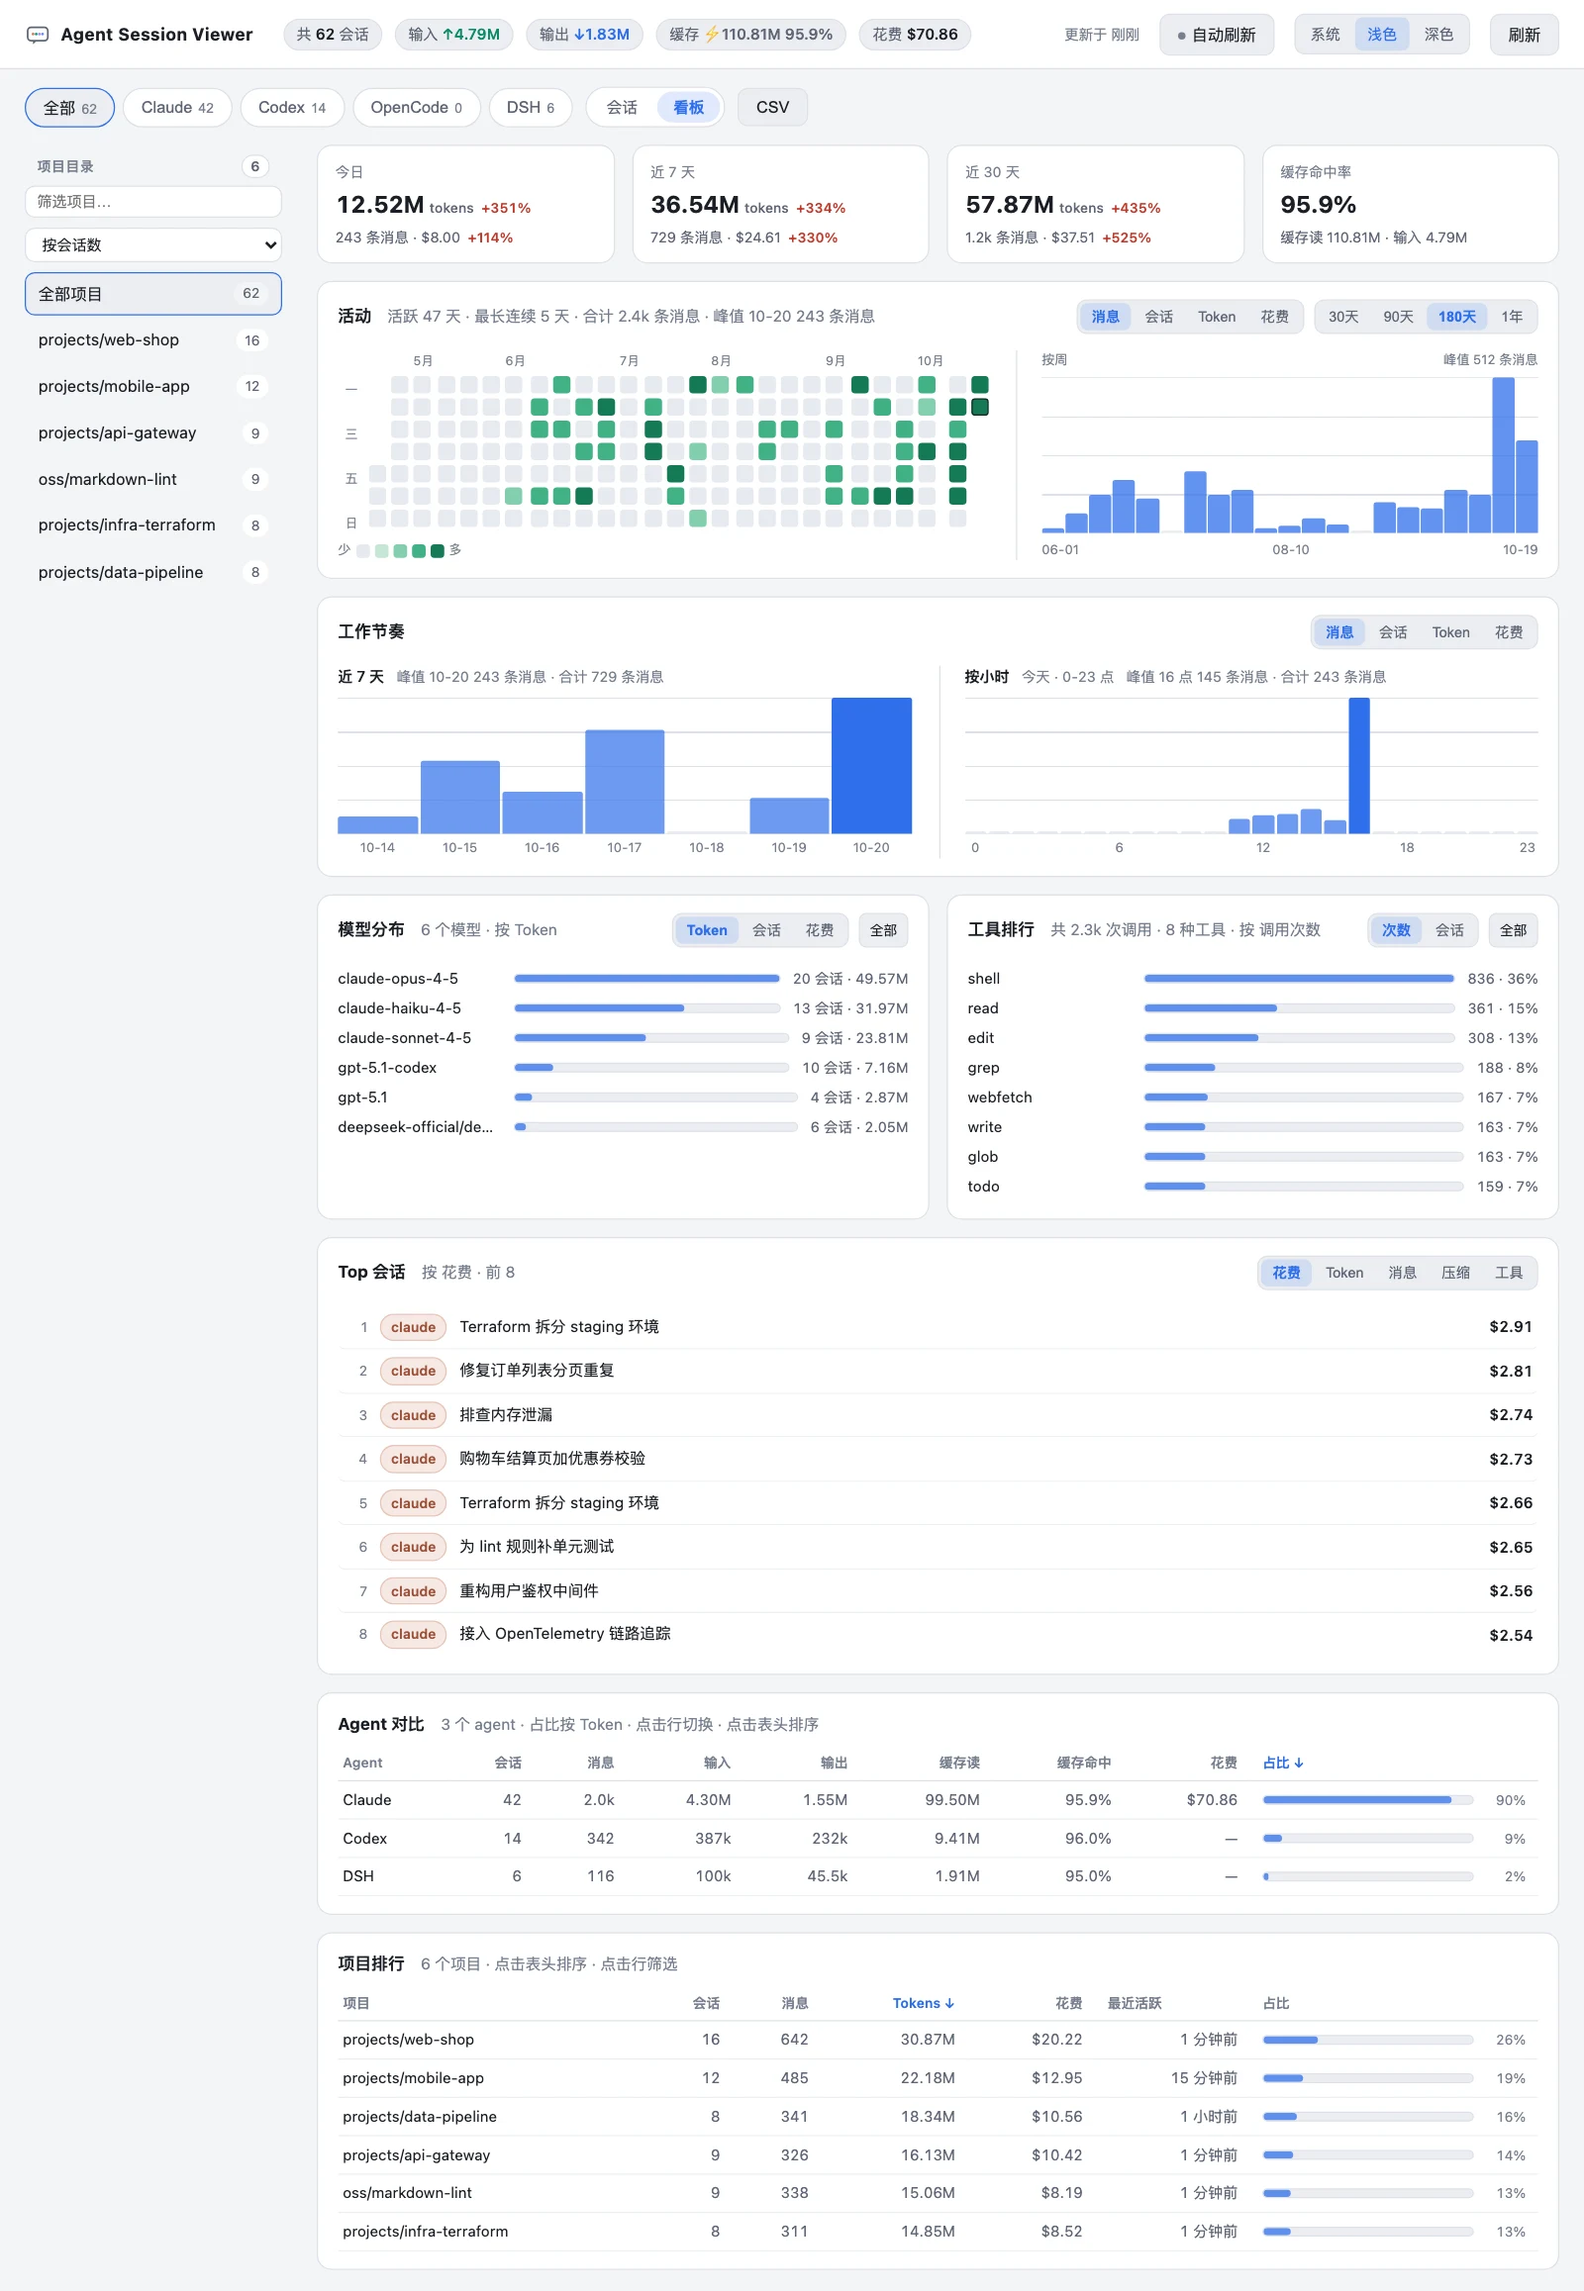
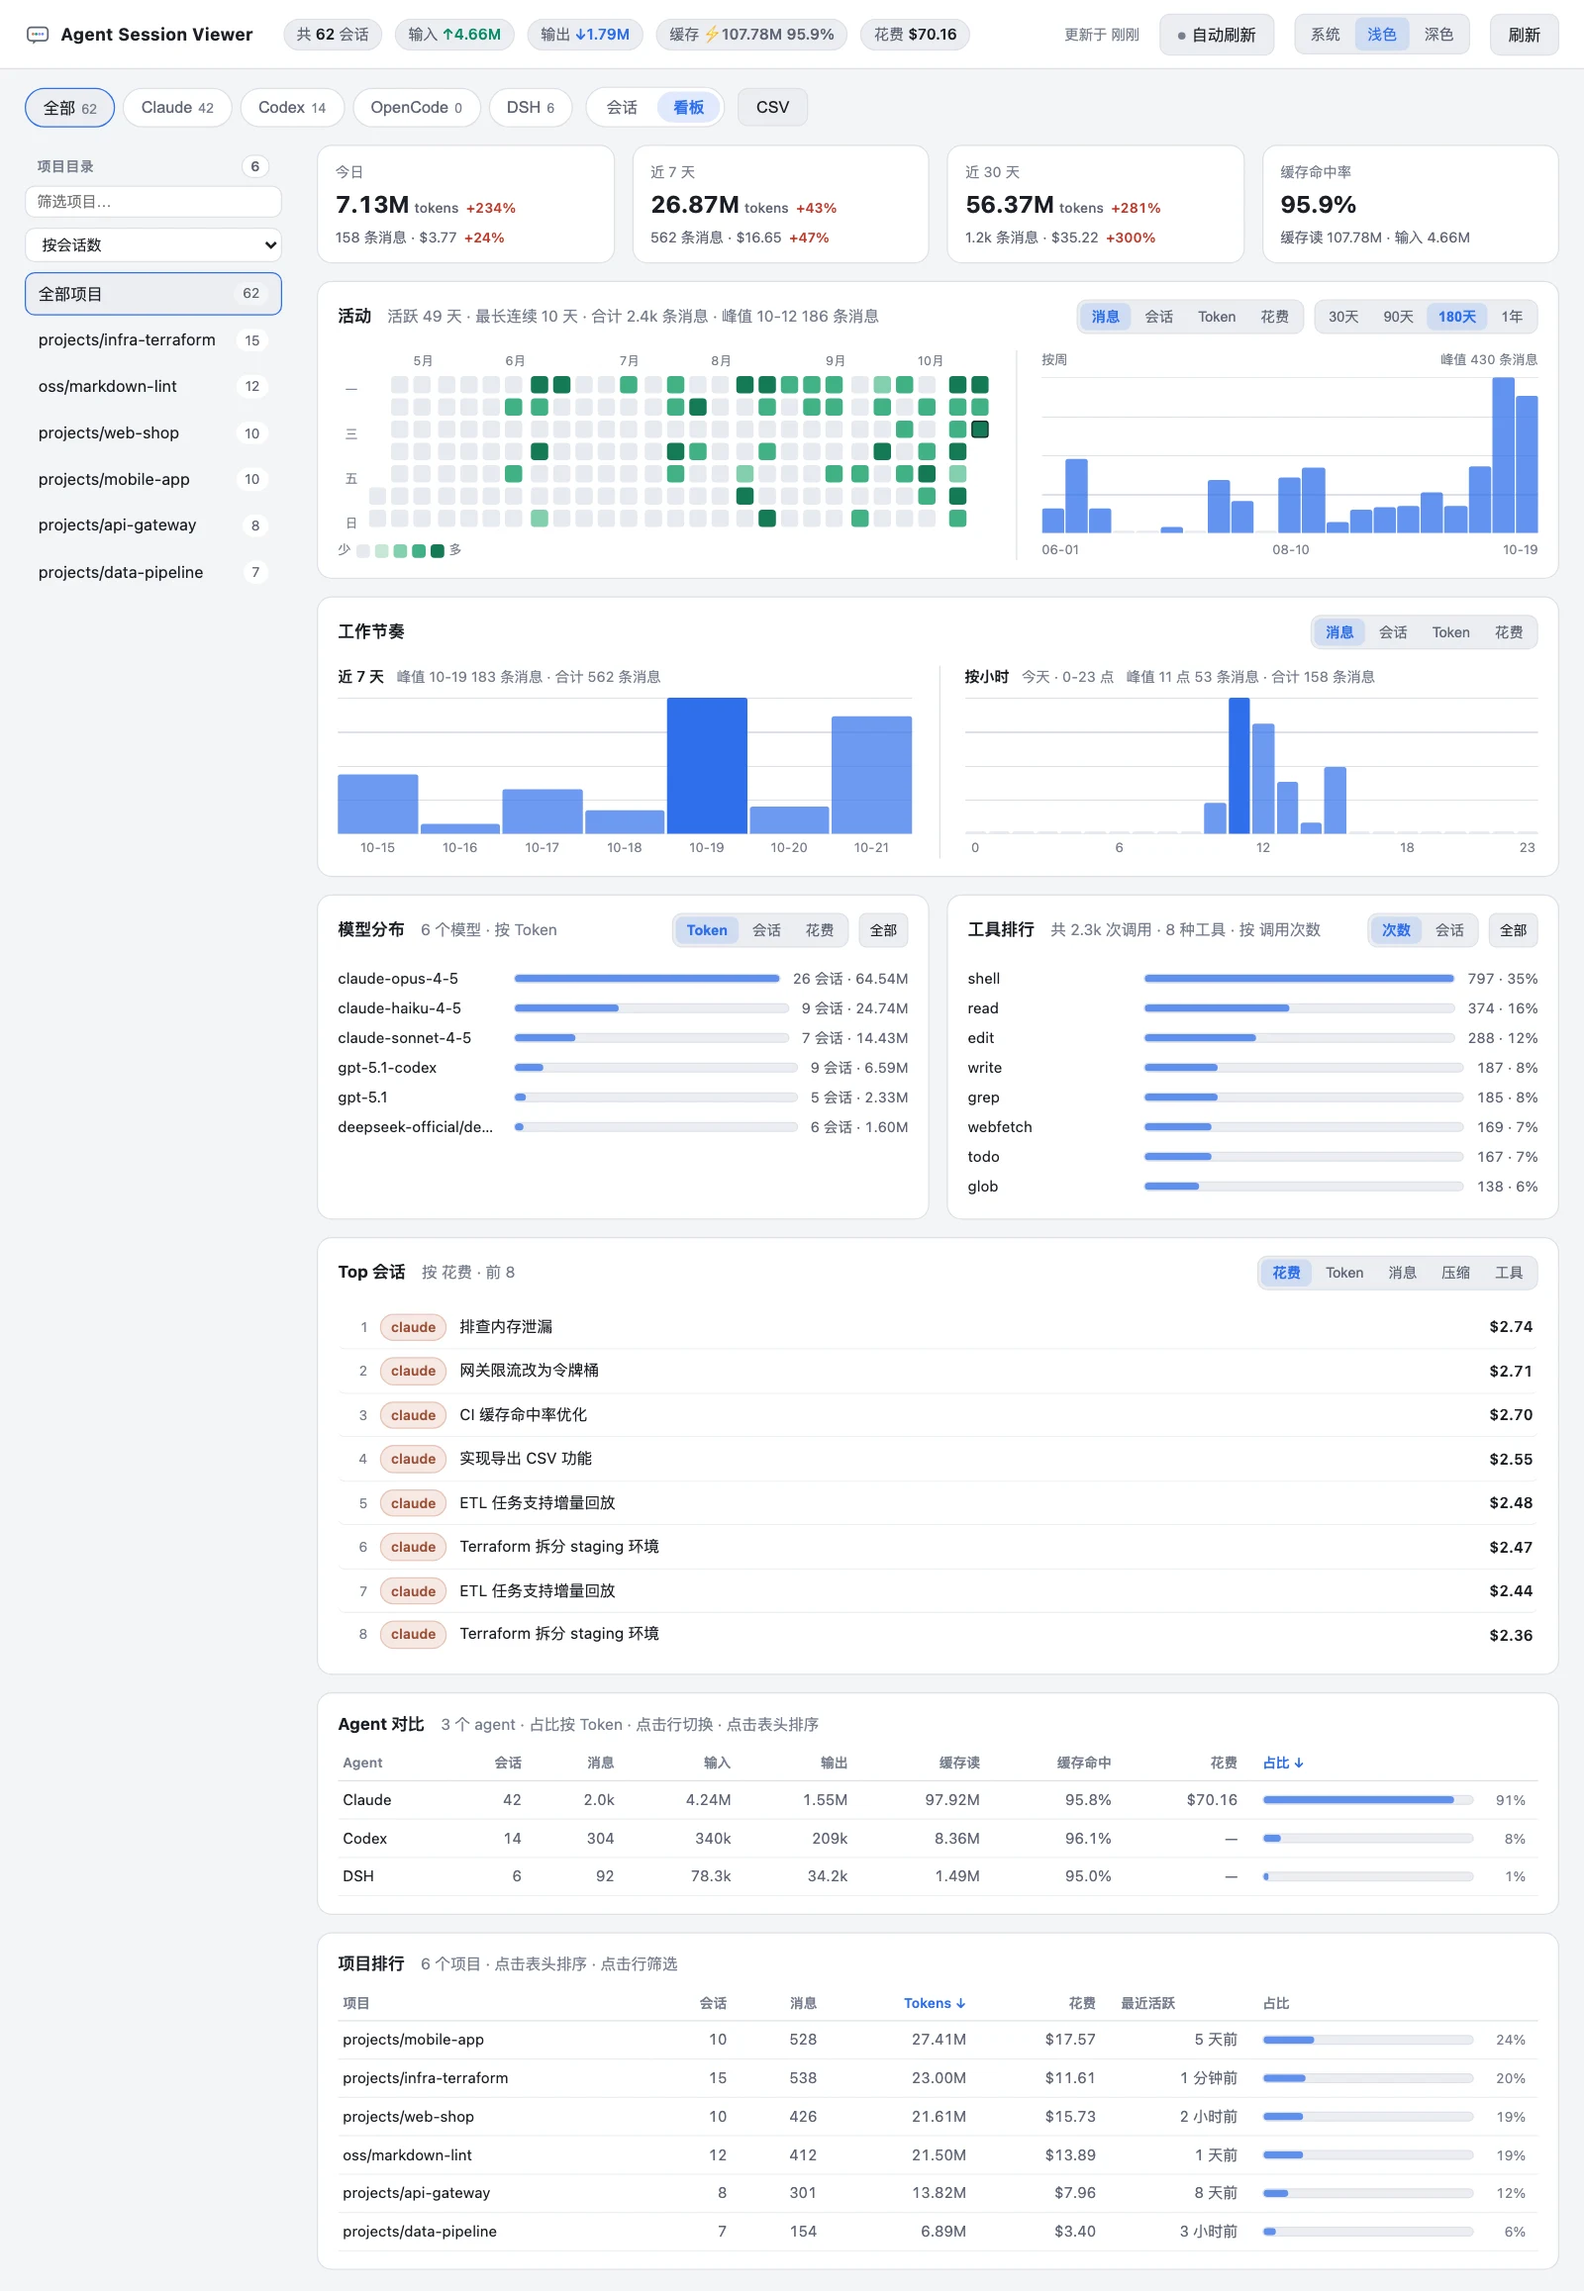
docs(readme): shrink and align the screenshot previews
Move the three screenshots into one row of same-aspect thumbnails and add a
viewport-sized dashboard-thumb.webp so the taller dashboard lines up with list
and detail. Full dashboard stays behind the click-through.

diff --git a/README.md b/README.md
@@ -20,9 +20,9 @@
 
 <br>
 
-<a href="docs/screenshots/list.webp"><img src="docs/screenshots/list.webp" width="920" alt="会话列表：分页、卡片/表格视图，按 agent 与项目筛选"></a>
+<a href="docs/screenshots/list.webp"><img src="docs/screenshots/list.webp" width="680" alt="会话列表：分页、卡片/表格视图，按 agent 与项目筛选"></a>
 
-<sub>截图使用合成的演示数据，可用 <code>node scripts/screenshots.mjs</code> 重新生成。</sub>
+<sub>点击查看原图 · 截图使用合成的演示数据，可用 <code>node scripts/screenshots.mjs</code> 重新生成</sub>
 
 </div>
 
@@ -34,22 +34,22 @@
 
 本工具把这些记录索引到一个统一的只读视图里：
 
-- **一处浏览**：会话列表按 agent / 项目筛选，分页、卡片 / 表格两种密度、收藏与本地标签。
-- **看得下去**：对话详情支持 Markdown 渲染、查找、跳转用户消息、消息大纲、宽屏 / 字号；子代理、分叉与续接关系可互相跳转。
-- **算得清楚**：KPI、活动热力图、趋势、Top 会话、工作节奏、模型 / 工具排行与可排序对比表；Codex / DSH 等没有记录花费的来源按参考单价显示「≈」估算。
-- **轻**：单个 Go 二进制，前端内嵌；增量索引只扫新增内容，二次启动几乎瞬时，空闲低占用。顶栏「自动刷新」或 `-watch-interval` 可让索引 / 页面保持更新（通常二选一）。
+- **概览**：会话列表按 agent / 项目筛选，分页、卡片 / 表格两种密度、收藏与本地标签。
+- **详情**：对话详情支持 Markdown 渲染、查找、跳转用户消息、消息大纲、宽屏 / 字号；子代理、分叉与续接关系可互相跳转。
+- **看板**：KPI、活动热力图、趋势、Top 会话、工作节奏、模型 / 工具排行与可排序对比表；Codex / DSH 等没有记录花费的来源按参考单价显示「≈」估算。
+- **轻量**：单个 Go 二进制，前端内嵌；增量索引只扫新增内容，二次启动几乎瞬时，空闲低占用。顶栏「自动刷新」或 `-watch-interval` 可让索引 / 页面保持更新（通常二选一）。
 
 所有源文件都以只读方式打开，不影响正在运行的 agent；HTTP 默认只绑定 `127.0.0.1`。它是一个本地工具，不是云端服务——没有账号，没有同步。
 
 ## 截图
 
-**统计看板**：概览卡片、活动热力图与趋势、工作节奏（近 7 天 / 今天按小时，可切换消息 / 会话 / Token / 花费）、Top 会话、模型 / 工具排行、Agent 对比与项目排行
+| 统计看板 | 对话详情 | 会话列表 |
+| :--: | :--: | :--: |
+| <a href="docs/screenshots/dashboard.webp"><img src="docs/screenshots/dashboard-thumb.webp" width="100%" alt="统计看板"></a> | <a href="docs/screenshots/detail.webp"><img src="docs/screenshots/detail.webp" width="100%" alt="对话详情"></a> | <a href="docs/screenshots/list.webp"><img src="docs/screenshots/list.webp" width="100%" alt="会话列表"></a> |
 
-<img src="docs/screenshots/dashboard.webp" width="100%" alt="统计看板">
+**统计看板**：概览卡片、活动热力图与趋势、工作节奏（近 7 天 / 今天按小时，可切换消息 / 会话 / Token / 花费）、Top 会话、模型 / 工具排行、Agent 对比与项目排行。
 
-**对话详情**：Markdown 渲染、查找与用户消息跳转、右侧消息大纲、上下文压缩标记、深链与 Markdown / JSON 导出
-
-<img src="docs/screenshots/detail.webp" width="100%" alt="对话详情">
+**对话详情**：Markdown 渲染、查找与用户消息跳转、右侧消息大纲、上下文压缩标记、深链与 Markdown / JSON 导出。
 
 ## 快速开始
 
@@ -80,7 +80,9 @@ asv -memory    # 可选：索引只放内存，不创建/读写缓存数据库
 asv -rebuild   # 删除缓存并全量重建（索引口径变更或缓存损坏时用）
 ```
 
-打开 http://localhost:8787。服务会先启动、再在后台扫描，首次建立索引期间页面会显示扫描进度；之后只扫描新增内容，二次启动几乎瞬时。
+运行后打开 http://localhost:8787
+
+服务会先启动、再在后台扫描，首次建立索引期间页面会显示扫描进度；之后只扫描新增内容，二次启动几乎瞬时。
 
 ## 数据来源
 
@@ -93,9 +95,13 @@ asv -rebuild   # 删除缓存并全量重建（索引口径变更或缓存损坏
 
 会话标题、模型、Token、花费、工具调用与每日活动都从上述文件解析；子代理、分叉和续接关系也会自动识别并互相跳转。解析细节见 [设计说明](docs/DESIGN.md)。
 
-四个 agent 的历史路径在各平台一致：Windows 上 `~` 即 `%USERPROFILE%`，OpenCode 也沿用 Unix 风格的 `~/.local/share/opencode`。DSH 默认读取 `~/.dsh/sessions`，设置了 `DSH_HOME` 时改为 `$DSH_HOME/sessions`。只有本工具自己的索引数据库遵循平台习惯——Windows 下默认 `%LOCALAPPDATA%\agent-session-viewer\index.db`，其他平台 `~/.local/share/agent-session-viewer/index.db`（`-db` 可覆盖）。
+四个 agent 的历史路径在各平台一致：
+- Windows 上 `~` 即 `%USERPROFILE%`
+- OpenCode 也沿用 Unix 风格的 `~/.local/share/opencode`
+- DSH 默认读取 `~/.dsh/sessions`，设置了 `DSH_HOME` 时改为 `$DSH_HOME/sessions`
+- 本工具自己的索引数据库遵循平台习惯——Windows 下默认 `%LOCALAPPDATA%\agent-session-viewer\index.db`，其他平台 `~/.local/share/agent-session-viewer/index.db`（`-db` 可覆盖）
 
-收藏、标签、主题、卡片/表格偏好等只保存在当前浏览器（localStorage），不会上传或同步。花费优先使用来源记录的真实值；Codex / DSH 等没有花费字段时，按 `web/pricing.js` 里的参考单价估算并显示 `≈`，仅供参考；从源码构建时可按需修改该表。
+收藏、标签、主题、卡片/表格偏好等只保存在当前浏览器（localStorage），不会上传或同步。花费优先使用来源记录的真实值；Codex / DSH 等没有花费字段时，按 `web/pricing.js` 里的参考单价估算并显示 `≈`，仅供参考。从源码构建时可按需修改该表。
 
 ## 命令行参数
 
@@ -121,7 +127,6 @@ asv -rebuild   # 删除缓存并全量重建（索引口径变更或缓存损坏
 
 | | |
 | :-- | :-- |
-| [本 README](README.md) | 安装、运行、数据来源与命令行参数 |
 | [docs/DESIGN.md](docs/DESIGN.md) | 解析细节、索引设计、项目结构与 HTTP API |
 | [CHANGELOG.md](CHANGELOG.md) | 版本变更记录 |
 
